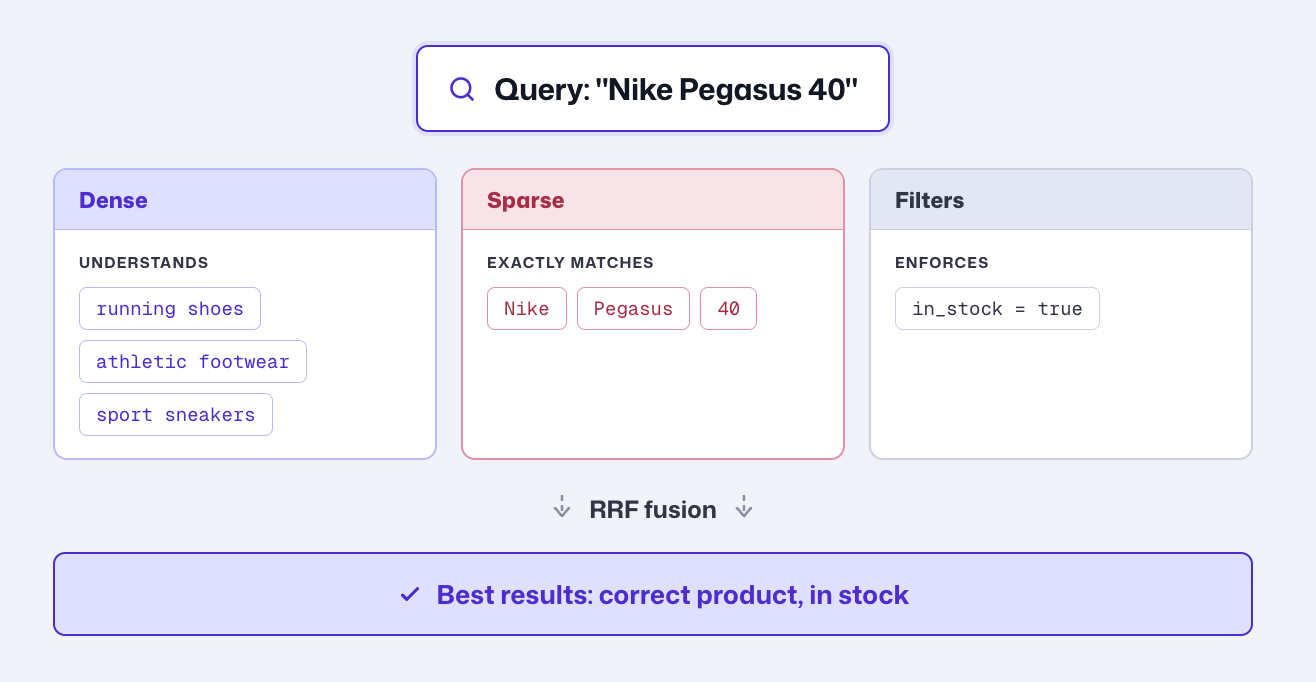
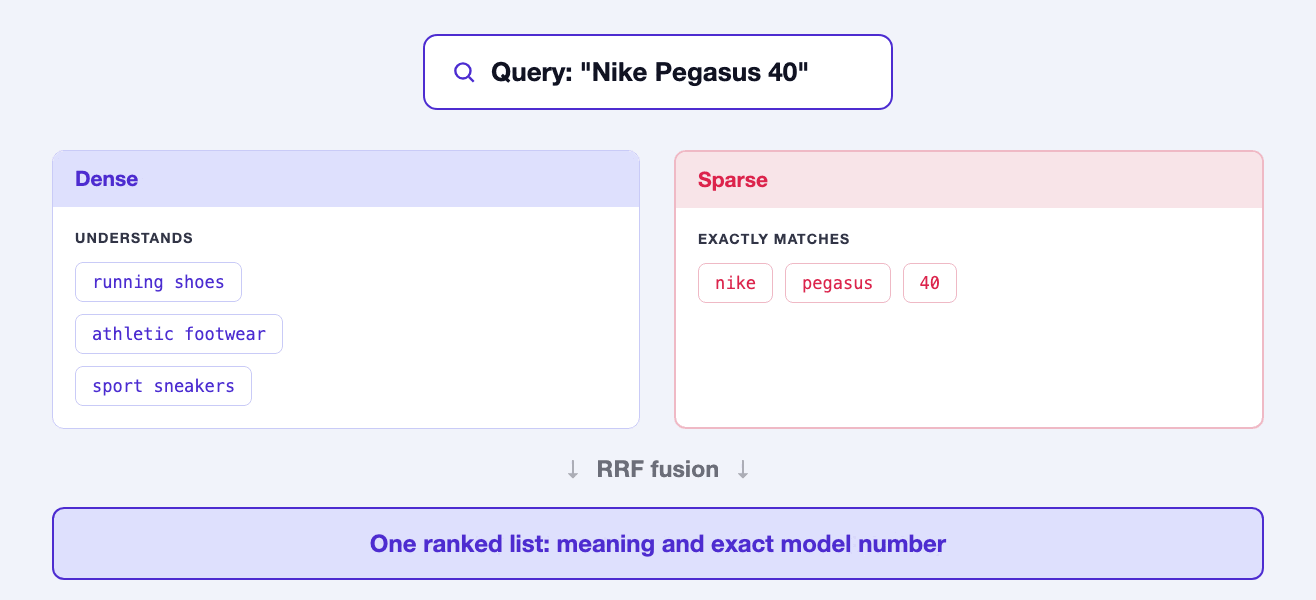
Rebuild hybrid diagram without filters, sharpen Try It

diff --git a/qdrant-landing/content/course/beginners/module-3/_index.md b/qdrant-landing/content/course/beginners/module-3/_index.md
@@ -389,7 +389,7 @@ Open the notebook and work through these against the catalog above:
 
 1. Query `Nike Pegasus 41` and compare the dense-only, sparse-only, and hybrid rankings. Which retriever separates 41 from 40 more decisively, and by how much?
 2. Add a `models.FieldCondition` on `price` with `models.Range(lte=140)` to `shopper_filter` and rerun. Two products should drop out. Predict which before you run it.
-3. Query `comfortable shoes for long runs`, a phrase no title contains. Dense ranks the products, while sparse returns a flat tie across the five titles holding both `running` and `shoes`. Work out why sharing exactly the same query tokens produces a tie.
+3. Query `comfortable shoes for long runs`, a phrase no title contains in full. Sparse can only score the titles that share `shoes` or `running`, and it orders them by how rare each token is and how long the title is, not by how well the shoe answers the question. Decide which retriever you would put in front of a shopper typing this, then run the hybrid version and see whether fusion changes your answer.
 
 <aside role="status">
 The same primitive extends beyond text: images with CLIP or SigLIP, video as sampled frames, audio as spectrogram embeddings, stored as named vectors exactly as this module stored dense and sparse together. Module 5 builds a full multimodal search system as the capstone.
@@ -441,7 +441,7 @@ You are in local mode with the filter at the top level rather than inside each p
 - [Filtering](/documentation/search/filtering/): full filter syntax and the payload index each condition needs.
 - [Named Vectors](/documentation/manage-data/vectors/#named-vectors): configuring and querying more than one vector on a single point.
 
-## What's Next - Module 4
+## What's Next: Module 4
 
 Eight products can fit in one collection and one query. A multilingual news archive with strict tenant isolation and a generation step requires a more deliberate design. <br>
 Module 4 works through this system end to end, decision by decision. You'll learn how the layers of the stack work together, how filters behave when the query planner selects a strategy, and how deployment choices range from Docker to Qdrant Edge.
